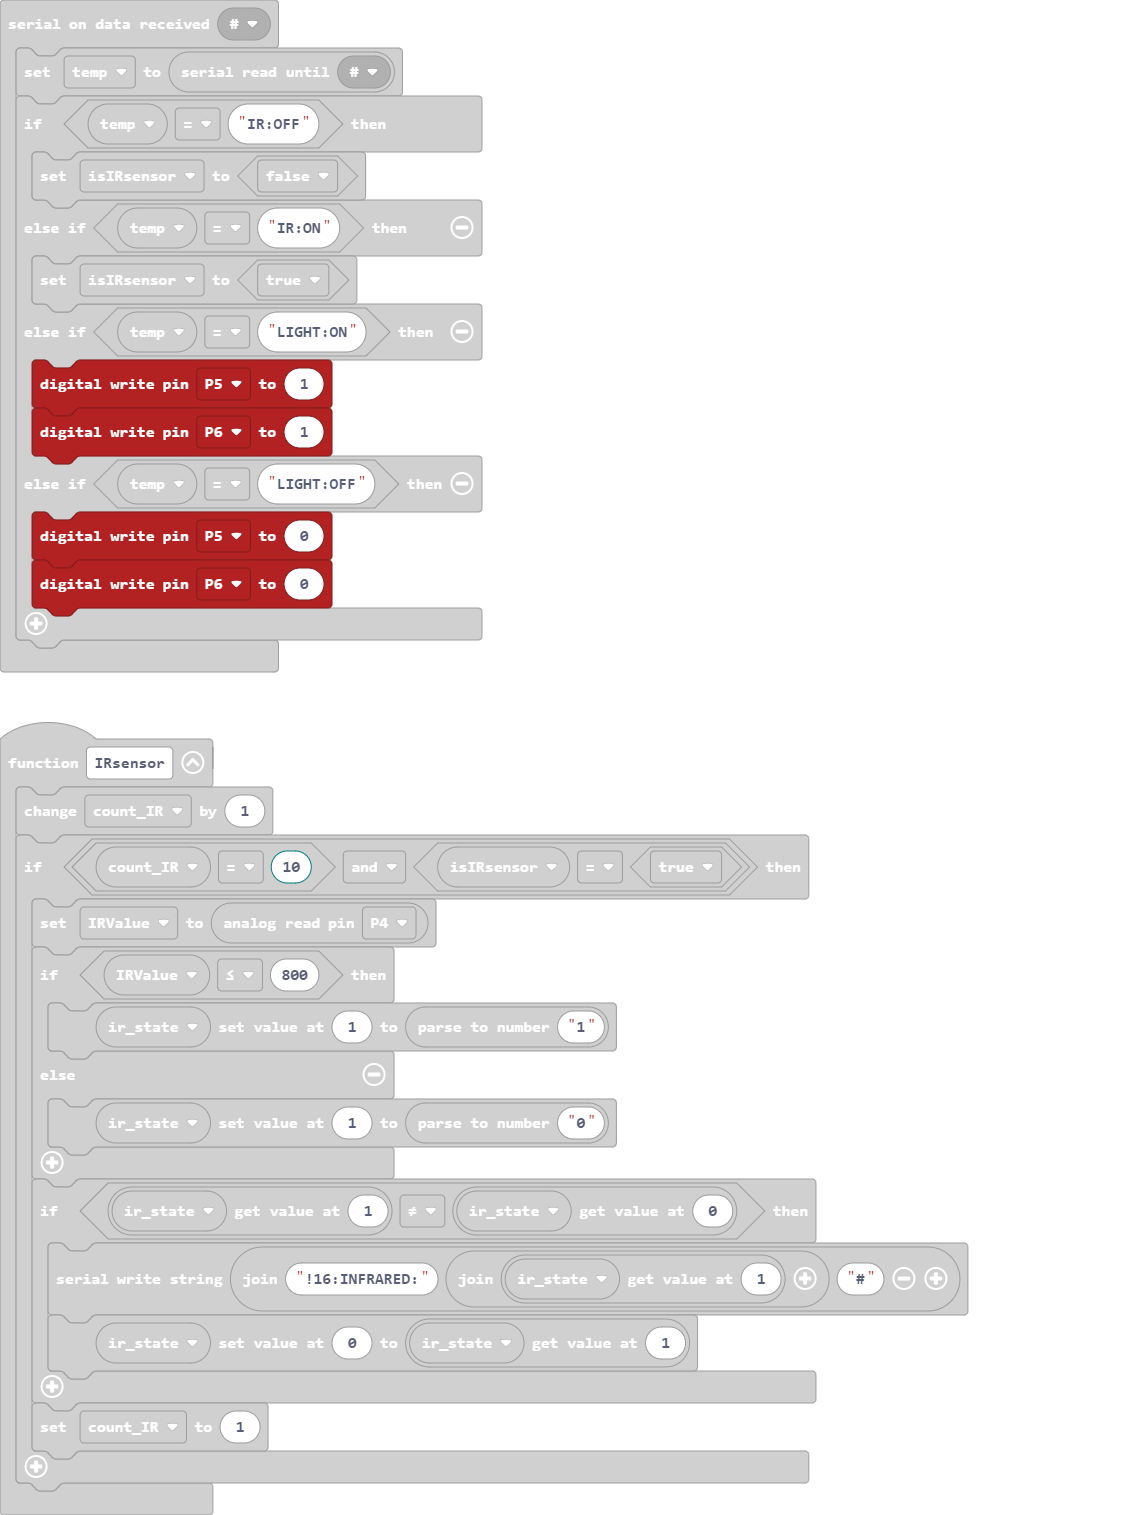
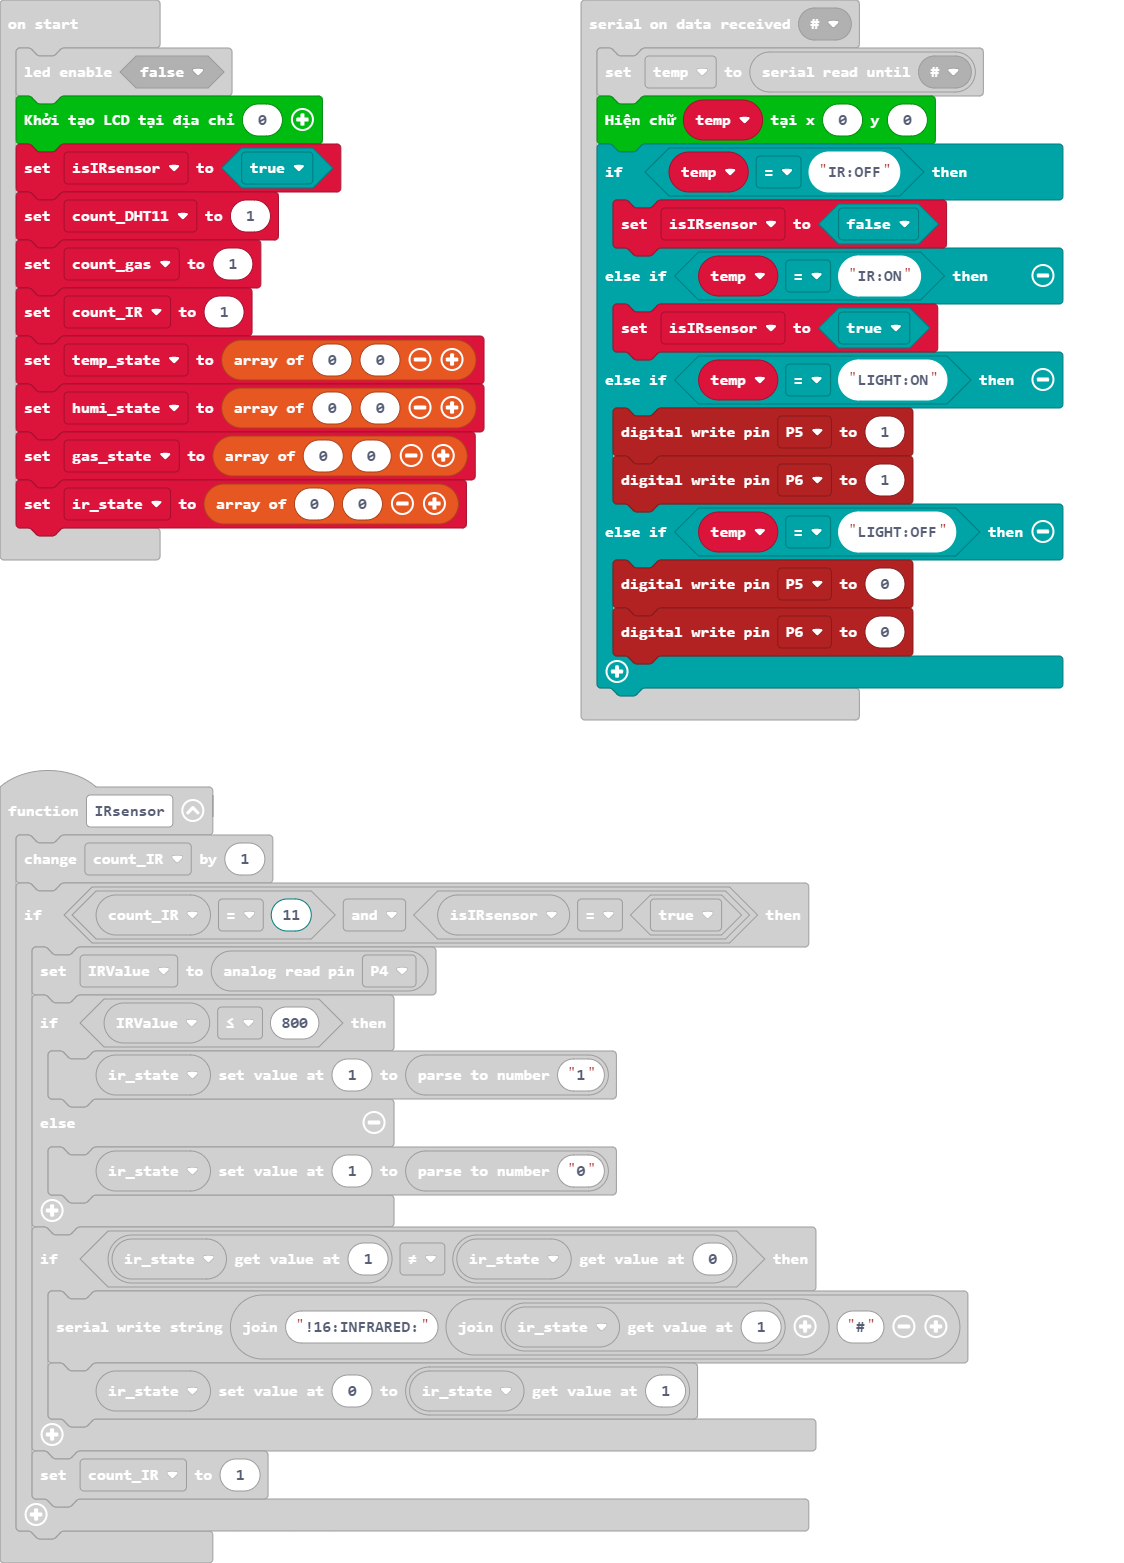
Update main.blocks, main.ts

diff --git a/main.ts b/main.ts
@@ -17,7 +17,7 @@ function DHT11 () {
 }
 function IRsensor () {
     count_IR += 1
-    if (count_IR == 10 && isIRsensor == true) {
+    if (count_IR == 11 && isIRsensor == true) {
         IRValue = pins.analogReadPin(AnalogPin.P4)
         if (IRValue <= 800) {
             ir_state[1] = parseFloat("1")
@@ -46,6 +46,7 @@ function Gas () {
 }
 serial.onDataReceived(serial.delimiters(Delimiters.Hash), function () {
     temp = serial.readUntil(serial.delimiters(Delimiters.Hash))
+    NPNLCD.ShowString(temp, 0, 0)
     if (temp == "IR:OFF") {
         isIRsensor = false
     } else if (temp == "IR:ON") {
@@ -71,6 +72,7 @@ let count_gas = 0
 let count_DHT11 = 0
 let isIRsensor = false
 led.enable(false)
+NPNLCD.LcdInit()
 isIRsensor = true
 count_DHT11 = 1
 count_gas = 1
